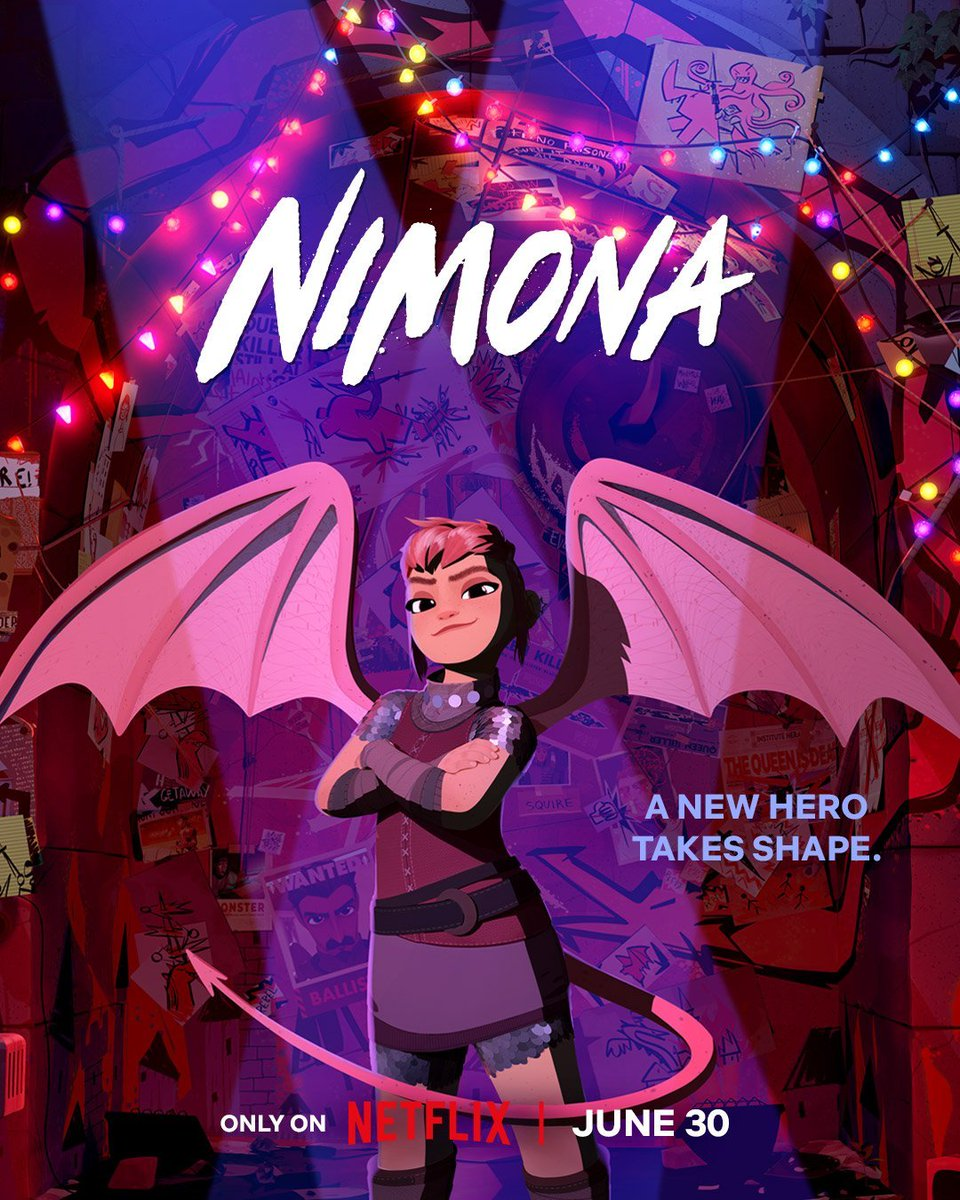
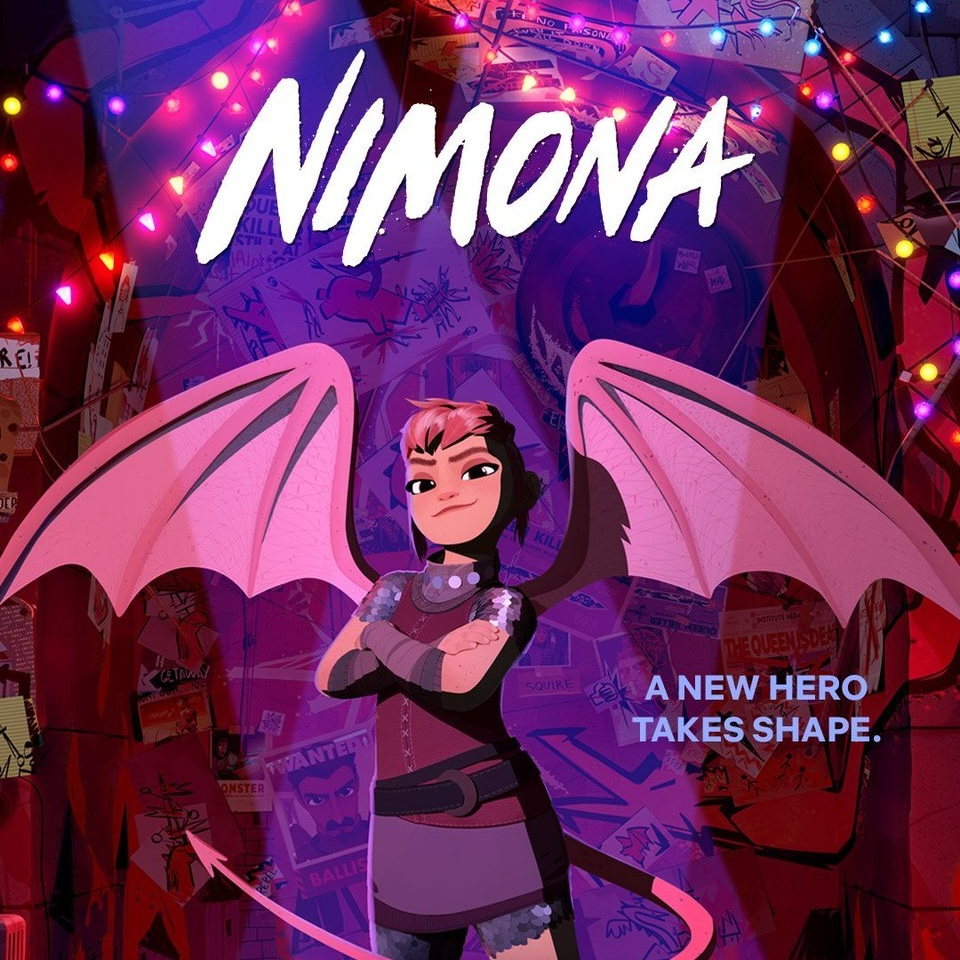
atualizei pagina principal

diff --git a/index.html b/index.html
@@ -33,43 +33,65 @@
     <main class="conteiner">
 
         <section class="destaques">
-            <div class="card-grande">
-                <img src="imagens/pag_prin_1.jpg" alt="">
+            <div class="card big-card-1 shadow">
+                <a  href="que-influenciadores-sao-esses-mat001.html"><img class="shadow" src="imagens/pag_prin_1.jpg" alt="influenciador Juliano Floss"></a>
             <div class="overlay orange">
-                <h3>Que influenciadores são esses?</h3>
+                <a  href="que-influenciadores-sao-esses-mat001.html">
+                    <h3>Que influenciadores são esses?</h3>
+                </a>
                 <p class="linha ">Desinfluência da moda</p>
             </div>
             </div>
 
-            <div class="card-grande galeria" >
-                <p >GALERIA</p>
-                <div>
-                    <img src="imagens/agenero-1.png" alt="">
-                    <div class="overlay gray" >
+            <div class="card big-card-2 galeria" >
+                <a href="#">GALERIA</a>
+               
+                <div class="barra-galeria shadow">
+                     <a href="#"><img class="shadow" src="imagens/agenero-1.png" alt="três passoa pando para a foto mostrando que roupa não tem gênero"></a>
+                </div>
+                <div  class="overlay gray">
                     
-                        <p class="sombra-texto"><strong>Moda agênero</strong><br>Conservadorismo e “moda masculina”</p>
+                        <a href="#">
+                            <h3 > Moda agênero</h3>
+                        </a> <p class="linha">Conservadorismo e “moda masculina”</p>
                     </div>
+            </div>
+        </section>
+        
+        <section class="lancamentos">
+
+            <div class="lancamento-cards">
+                <div class="card-lanc">
+                    <a href="#" class="titulo-card">
+                        <h4>ÁLBUNS  NACIONAIS  LANÇADOS EM 2023</h4>
+                        <img src="imagens/iza.png" alt="Capa do álbum Afrohit da cantora Iza">
+                    </a>
+                    
+                </div>
+                 <div class="card-lanc">
+                    <a href="" class="titulo-card"> 
+                        <h4>FILMES E SÉRIES LANÇADOS EM 2023</h4>
+                        <img src="imagens/nimona_filme.jpg" alt="Capa do filme Nimona">
+                    </a>
+                   
+                </div> 
+                <div class="card-lanc">
+                    <a href="" class="titulo-card">
+                        <h4>ÁLBUNS NACIONAIS LANÇADOS EM 2025</h4>
+                        <img src="imagens/dominguinho_album.png" alt="">
+                    </a>
+                    
+                </div>
+                <div class="card-lanc">
+                    <a href="" class="titulo-card">
+                        <h4>FILMES E SÉRIES LANÇADOS EM 2023</h4>
+                        <img src="imagens/pluribus_serie.png" alt="">
+                    </a>
                 </div>
             </div>
         </section>
 
-            <!-- <div id="secao1">
-                <div class="materia-s1">
-                    <a href="que-influenciadores-sao-esses-mat001.html"><img src="imagens/pag_prin_1.jpg" alt="Influênciador Juliano Floss"></a> 
-                    <a href="que-influenciadores-sao-esses-mat001.html">Que influenciadores são esses?</a>
-                    <p>Desinfluência da moda</p>
-                </div>
-                <div class="galeria-s1">
-                    <a href="#"><img src="imagens/agenero-1.png" alt=""></a>
-                </div> 
-            </div>
-            <div id="secao2">
-
-            </div>
-            <div id="secao3">
-
-            </div> -->
-        
+           
     </main>
 
     <footer>

diff --git a/estilo/style.css b/estilo/style.css
@@ -27,6 +27,7 @@
 body {
     background-color: var(--cor0);
     font-family: "poppins", sans-serif;
+    width: 100%;
 }
 
 
@@ -65,13 +66,13 @@ header > div > img {
 }
 
 .nav {
-  width: 100%;
-  max-width: 700px; 
-  display: flex;
-  justify-content: space-between;
-  border-top: 1px solid var(--cor1);
-  border-bottom: 1px solid var(--cor1);
-  overflow-x: auto;
+    width: 100%;
+    max-width: 700px; 
+    display: flex;
+    justify-content: space-between;
+    border-top: 1px solid var(--cor1);
+    border-bottom: 1px solid var(--cor1);
+    overflow-x: auto;
 }
 
 .nav::-webkit-scrollbar {
@@ -86,35 +87,51 @@ header > div > img {
 }
 
 
+/*main*/
 
-.container {
-  max-width: 1200px;
+main.container {
+  max-width: 1120px;
+  min-width: 300px;
   margin: auto;
-  padding: 40px 20px;
+  display: flex;
+  flex-direction: column;
+  
 }
 
 .destaques {
-  display: grid;
-  grid-template-columns: 1fr 1fr;
-  gap: 20px;
-  margin-bottom: 60px;
+    margin: 10px 605px;
+    display: grid;
+    grid-template-columns: 1fr 1fr;
+    gap: 35px;
+    justify-content: space-between;
+
 }
 
-.card-grande {
-  position: relative;
+.card {
+    position: relative;
 }
 
-.card-grande img {
-  width: 100%;
-  height: 100%;
-  object-fit: cover;
-  padding: 20px 0px 0px 0px;
+.big-card-1 img {
+    width: 100%;
+    height: 100%;
+    object-fit: cover;
+    padding: 20px 0px 0px 0px;
 }
 
-
+.card > a{
+    color: black;
+}
 
 .linha{
-border-top: 1px solid white;
+    border-top: 1px solid white;
+    margin: 10px;
+    padding: 10px;
+}
+
+.overlay.gray > .linha{
+    border-top: 1px solid var(--cor1);
+    margin: 10px;
+    padding: 10px;
 }
 
 .overlay.orange {
@@ -123,50 +140,105 @@ border-top: 1px solid white;
     bottom: 0;
     background: var(--cor1-1);
     color: white;
+    font-size: 0.8rem;
     width: 100%;
-    padding: 20px;
+    padding: 10px;
 }
 
+.overlay p{
+    font-style: italic;
+}
 .galeria{
     margin: 20px 0px 0px 0px;
     text-align: center;
     border: 1px solid var(--cor1);
-    padding: 0px 10px;
+     /* padding: 0px 10px;  */
 }
+
+.barra-galeria{
+    margin: 0px 10px;
+}
+
+div.shadow{
+   box-shadow: 0px 35px 45px -30px rgba(87, 87, 87, 0.446);
+
+}
+
+.big-card-2 img {
+  width: 100%;
+  height: 100%;
+  object-fit: cover; 
+  padding: 8px 0px 0px 0px;
+}
+
 
 .overlay.gray {
     text-align: center;
     position: absolute;
-    bottom: 0;
+    bottom: 0px;
     background: var(--cor3-1);
     color: var(--cor1);
+    font-size: 0.8rem;
     width: 100%;
-    padding: 25px;
-   
+    height: auto;
+    padding: 10px;
 }
 
-/* main{
-  
+.orange a > h3 {
+    color: white;
 }
 
-div#secao1{
-    max-width: 10px;
+.gray a > h3 {
+    color: var(--cor1);
+}
+
+
+
+
+section.lancamentos{
+    margin: 60px 600px;
     display: flex;
+    gap: 50px;
+    justify-content: center;
+
+    
+}
+
+.lancamento-cards{
+    margin: 10px;
+    display: flex;
+    
     flex-direction: row;
-    margin: 20px 20px 20px 0px;
+    column-gap: 45px;
+}
+
+.card-lanc{
+    border: 1px solid var(--cor1);
+    justify-content: space-between;
+    margin: 0px;
+    padding: 0px 15px 5px 15px;
+}
+
+.card-lanc img{
+    width: 180px;
+    height: 180px;
+    
+} 
+.titulo-card h4{
+    font-size: 8px;
+    font-weight: bold;
+    text-align: center;
+    text-decoration: underline;
+    color: black;
+    margin: 5px 0px 10px 0px;
+}
+
+.lancamentos> a > img{
     
 }
 
 
-
-.materia-s1 a img{
-   width: 400px;
-}
-.galeria-s1 a img{
-   width: 400px;
-} */
-
-
+/*footer*/
 footer {
     width: 100%;
     color: var(--cor2-2);
@@ -178,8 +250,8 @@ footer {
     display: grid;
     grid-template-columns: repeat(3, 1fr);
     padding: 3rem 3.5rem;
-
 }
+
 
 #footer-incricao {
     display: flex;

diff --git a/que-influenciadores-sao-esses-mat001.html b/que-influenciadores-sao-esses-mat001.html
@@ -29,7 +29,7 @@
                 </nav>
             </div>
     </header>
-    <main>
+    <main class="materia">
 
         <article>
             <h1 class="titulo-materia">Que influenciadores são esses?</h1>

diff --git a/estilo/article.css b/estilo/article.css
@@ -2,7 +2,7 @@
 
 
 
-main {
+main.materia{
     min-width: 300px;
     max-width: 700px;
     margin: auto;
